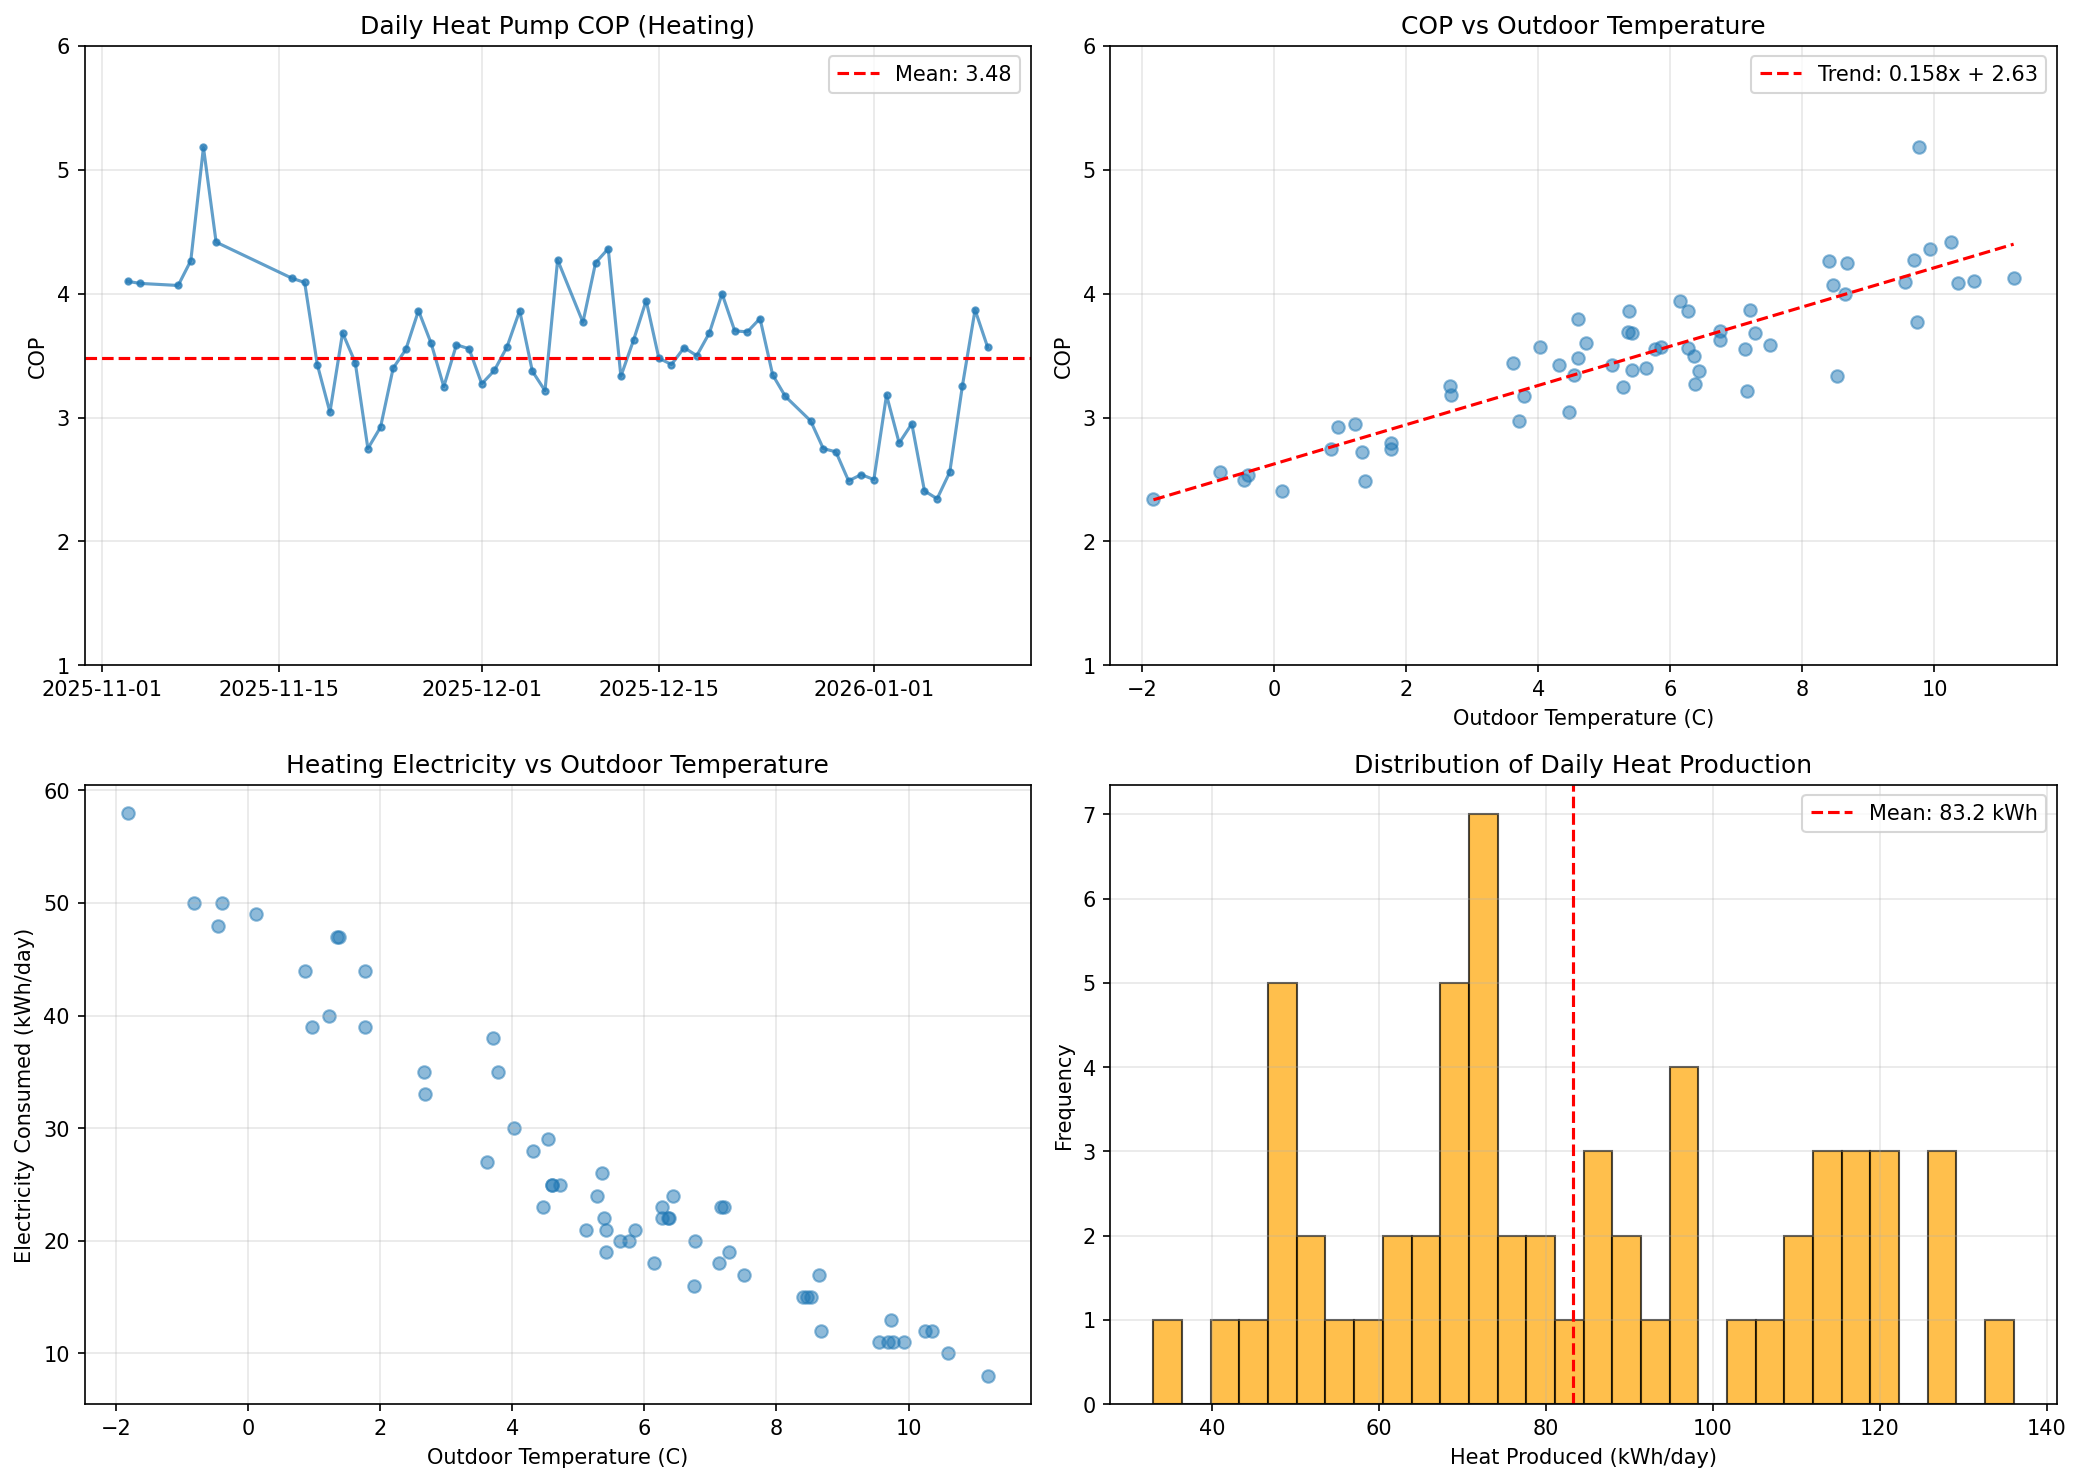
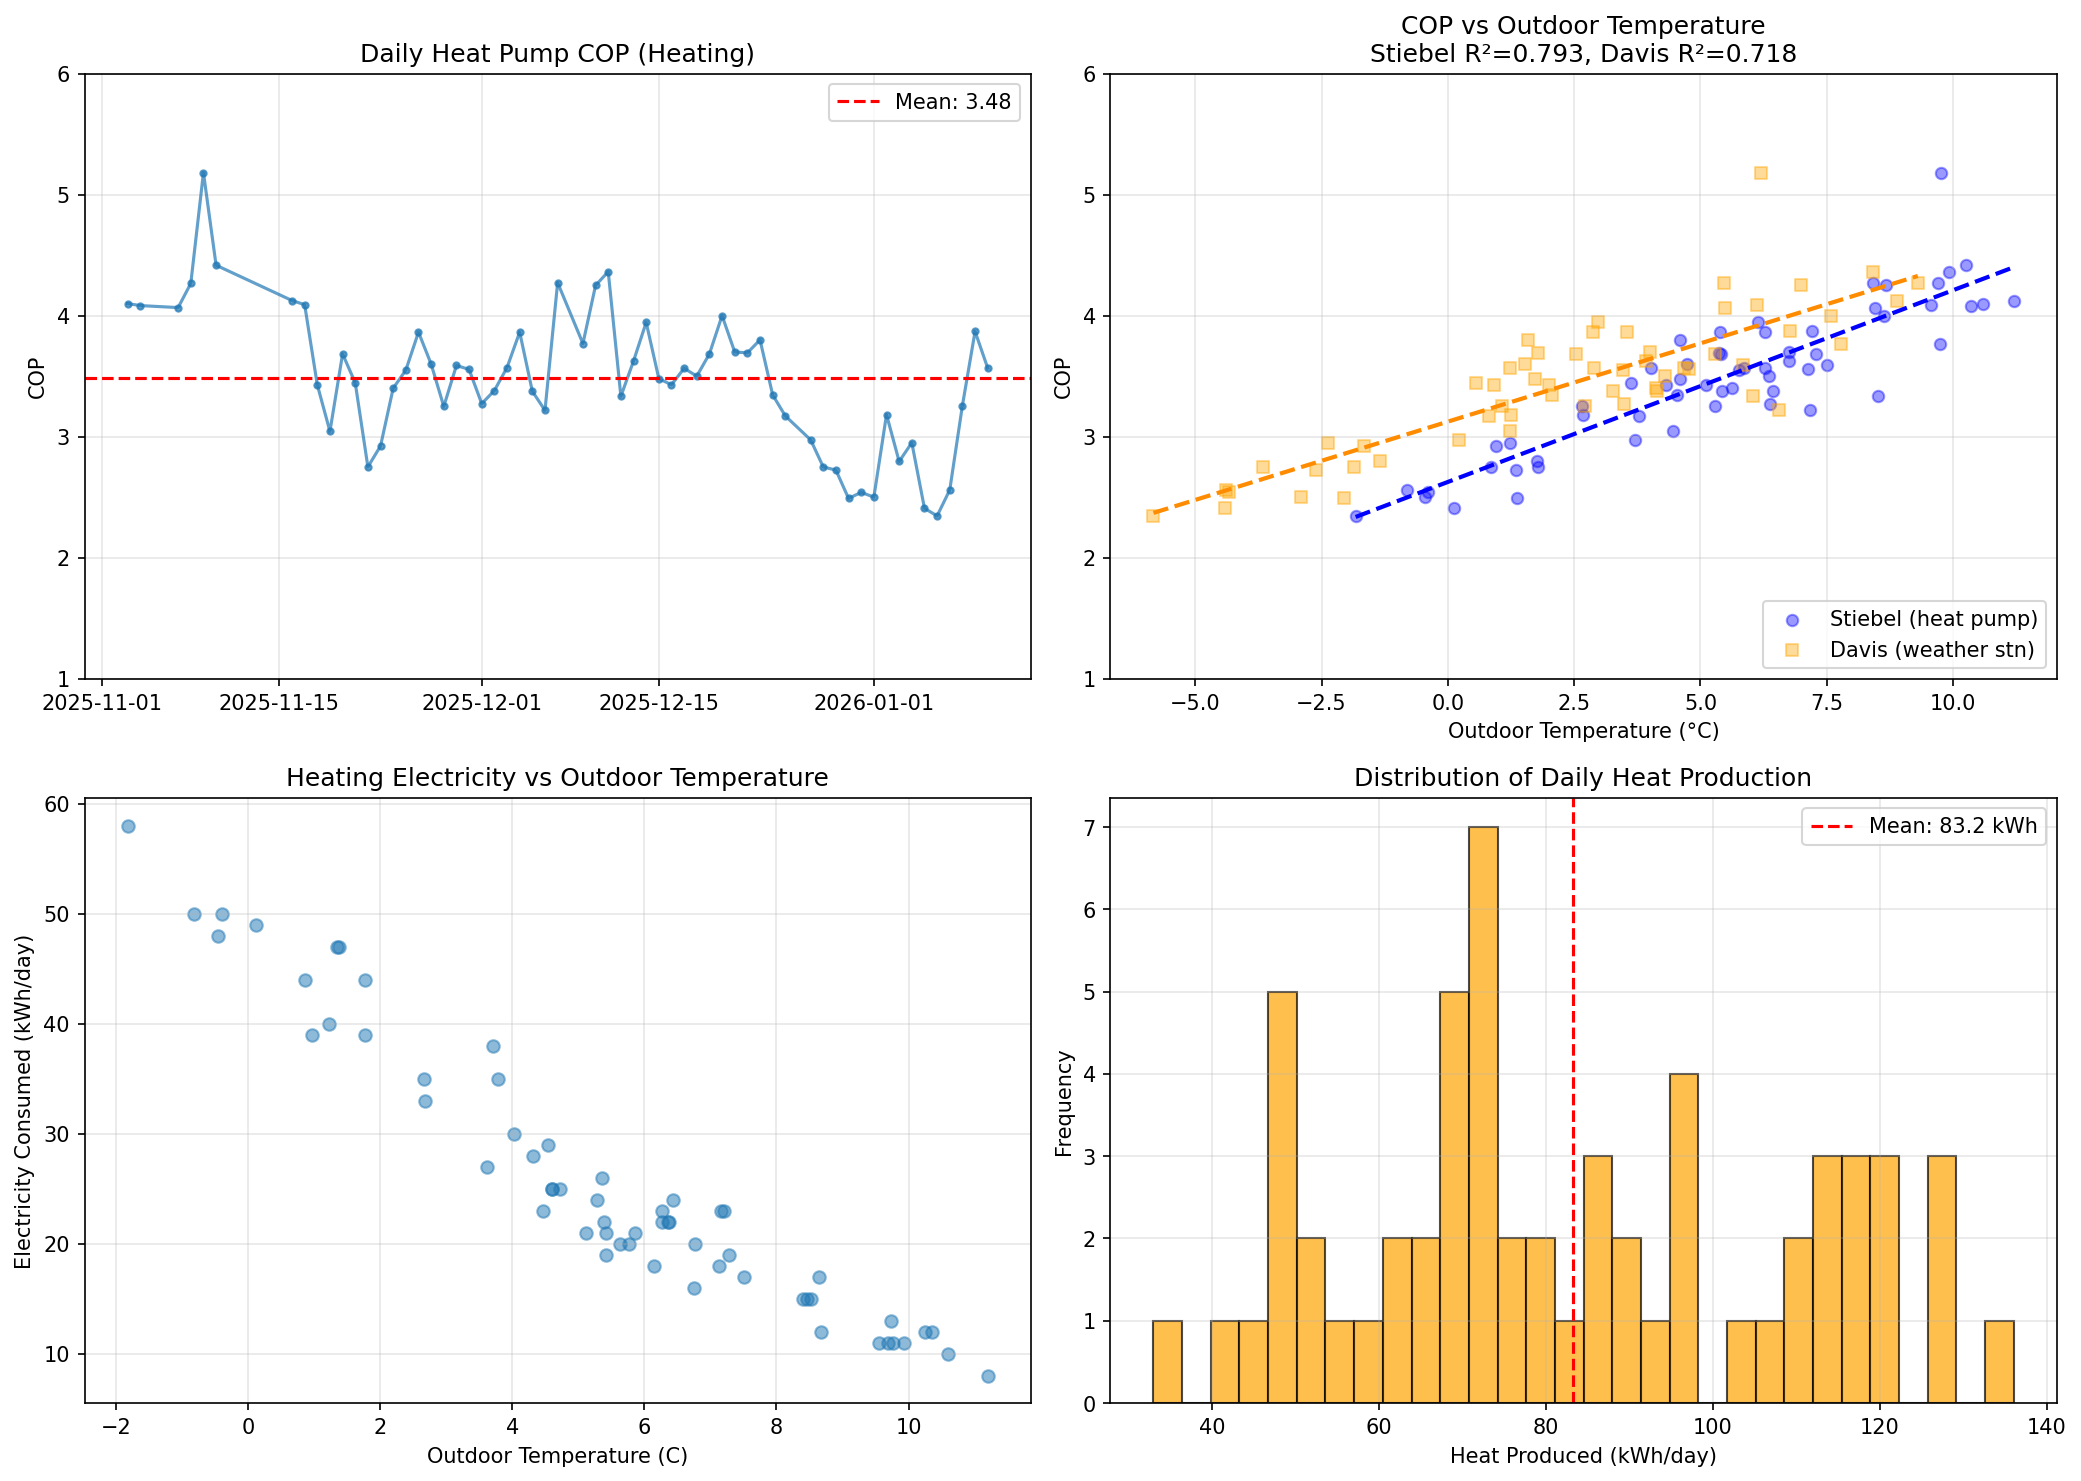
Add outdoor temperature sensor comparison for COP analysis
Compare Stiebel heat pump sensor vs Davis weather station as COP
predictors in Phase 2 Figure 5:
- Stiebel R² = 0.793 (better predictor)
- Davis R² = 0.718

Finding: Heat pump's built-in sensor is 10% better at predicting COP,
likely because it measures the actual air temperature at the evaporator
location. Davis station may be positioned with different exposure.

Conclusion: Keep using Stiebel sensor for COP analysis (no change needed).

🤖 Generated with [Claude Code](https://claude.com/claude-code)

diff --git a/src/phase2/01_eda.py b/src/phase2/01_eda.py
@@ -381,6 +381,7 @@ def analyze_heating_system(data):
     print("="*60)
 
     heating = data['heating'].copy()
+    weather = data['weather'].copy()  # For Davis outdoor temperature comparison
 
     # Key heating columns
     hp_cols = {
@@ -489,13 +490,19 @@ def analyze_heating_system(data):
         daily_heating.loc[daily_heating['cop'] > 10, 'cop'] = np.nan
         daily_heating.loc[daily_heating['cop'] < 1, 'cop'] = np.nan
 
-        # Get outdoor temperature daily average
+        # Get outdoor temperature daily average (Stiebel heat pump sensor)
         if 'outdoor_temp' in hp_data.columns:
             daily_outdoor = hp_data['outdoor_temp'].resample('D').mean()
             daily_heating = daily_heating.join(daily_outdoor.rename('outdoor_temp'))
 
+        # Get Davis weather station outdoor temperature for comparison
+        if 'davis_outside_temperature' in weather.columns:
+            daily_davis = weather['davis_outside_temperature'].resample('D').mean()
+            daily_heating = daily_heating.join(daily_davis.rename('davis_outdoor_temp'))
+
     # --- Figure 5: Heat Pump COP Analysis ---
     fig, axes = plt.subplots(2, 2, figsize=(14, 10))
+    r2_stiebel, r2_davis = None, None  # Track R² for comparison output
 
     if not daily_heating.empty and 'cop' in daily_heating.columns:
         # COP time series
@@ -509,27 +516,52 @@ def analyze_heating_system(data):
         ax.grid(True, alpha=0.3)
         ax.set_ylim(1, 6)
 
-        # COP vs outdoor temperature
+        # COP vs outdoor temperature - Compare both sensors
         ax = axes[0, 1]
+
+        # Stiebel heat pump sensor (blue)
         if 'outdoor_temp' in daily_heating.columns:
             mask = daily_heating['cop'].notna() & daily_heating['outdoor_temp'].notna()
-            ax.scatter(daily_heating.loc[mask, 'outdoor_temp'],
-                      daily_heating.loc[mask, 'cop'], alpha=0.5)
-            ax.set_xlabel('Outdoor Temperature (C)')
-            ax.set_ylabel('COP')
-            ax.set_title('COP vs Outdoor Temperature')
-            ax.grid(True, alpha=0.3)
-            ax.set_ylim(1, 6)
+            x_stiebel = daily_heating.loc[mask, 'outdoor_temp'].values
+            y_stiebel = daily_heating.loc[mask, 'cop'].values
+            ax.scatter(x_stiebel, y_stiebel, alpha=0.4, color='blue', label='Stiebel (heat pump)', s=30)
 
-            # Add trendline
-            x = daily_heating.loc[mask, 'outdoor_temp'].values
-            y = daily_heating.loc[mask, 'cop'].values
-            if len(x) > 5:
-                z = np.polyfit(x, y, 1)
+            if len(x_stiebel) > 5:
+                z = np.polyfit(x_stiebel, y_stiebel, 1)
                 p = np.poly1d(z)
-                x_line = np.linspace(x.min(), x.max(), 100)
-                ax.plot(x_line, p(x_line), 'r--', label=f'Trend: {z[0]:.3f}x + {z[1]:.2f}')
-                ax.legend()
+                y_pred = p(x_stiebel)
+                ss_res = np.sum((y_stiebel - y_pred) ** 2)
+                ss_tot = np.sum((y_stiebel - np.mean(y_stiebel)) ** 2)
+                r2_stiebel = 1 - (ss_res / ss_tot)
+                x_line = np.linspace(x_stiebel.min(), x_stiebel.max(), 100)
+                ax.plot(x_line, p(x_line), 'b--', linewidth=2)
+
+        # Davis weather station sensor (orange)
+        if 'davis_outdoor_temp' in daily_heating.columns:
+            mask = daily_heating['cop'].notna() & daily_heating['davis_outdoor_temp'].notna()
+            x_davis = daily_heating.loc[mask, 'davis_outdoor_temp'].values
+            y_davis = daily_heating.loc[mask, 'cop'].values
+            ax.scatter(x_davis, y_davis, alpha=0.4, color='orange', label='Davis (weather stn)', s=30, marker='s')
+
+            if len(x_davis) > 5:
+                z = np.polyfit(x_davis, y_davis, 1)
+                p = np.poly1d(z)
+                y_pred = p(x_davis)
+                ss_res = np.sum((y_davis - y_pred) ** 2)
+                ss_tot = np.sum((y_davis - np.mean(y_davis)) ** 2)
+                r2_davis = 1 - (ss_res / ss_tot)
+                x_line = np.linspace(x_davis.min(), x_davis.max(), 100)
+                ax.plot(x_line, p(x_line), color='darkorange', linestyle='--', linewidth=2)
+
+        ax.set_xlabel('Outdoor Temperature (°C)')
+        ax.set_ylabel('COP')
+        title = 'COP vs Outdoor Temperature'
+        if r2_stiebel is not None and r2_davis is not None:
+            title += f'\nStiebel R²={r2_stiebel:.3f}, Davis R²={r2_davis:.3f}'
+        ax.set_title(title)
+        ax.grid(True, alpha=0.3)
+        ax.set_ylim(1, 6)
+        ax.legend(loc='lower right')
 
     # Heating energy consumption by outdoor temp
     ax = axes[1, 0]
@@ -560,6 +592,20 @@ def analyze_heating_system(data):
     plt.savefig(OUTPUT_DIR / 'fig05_heat_pump_cop.png', dpi=150, bbox_inches='tight')
     plt.close()
     print("  Saved: fig05_heat_pump_cop.png")
+
+    # Print outdoor temperature sensor comparison
+    if r2_stiebel is not None and r2_davis is not None:
+        print("\n  Outdoor Temperature Sensor Comparison for COP Prediction:")
+        print(f"    Stiebel (heat pump sensor):  R² = {r2_stiebel:.4f}")
+        print(f"    Davis (weather station):     R² = {r2_davis:.4f}")
+        if r2_davis > r2_stiebel:
+            improvement = (r2_davis - r2_stiebel) / r2_stiebel * 100
+            print(f"    → Davis sensor is better predictor (+{improvement:.1f}% R² improvement)")
+        elif r2_stiebel > r2_davis:
+            improvement = (r2_stiebel - r2_davis) / r2_davis * 100
+            print(f"    → Stiebel sensor is better predictor (+{improvement:.1f}% R² improvement)")
+        else:
+            print("    → Both sensors perform equally")
 
     # --- Figure 6: Temperature Differentials ---
     fig, axes = plt.subplots(2, 2, figsize=(14, 10))
